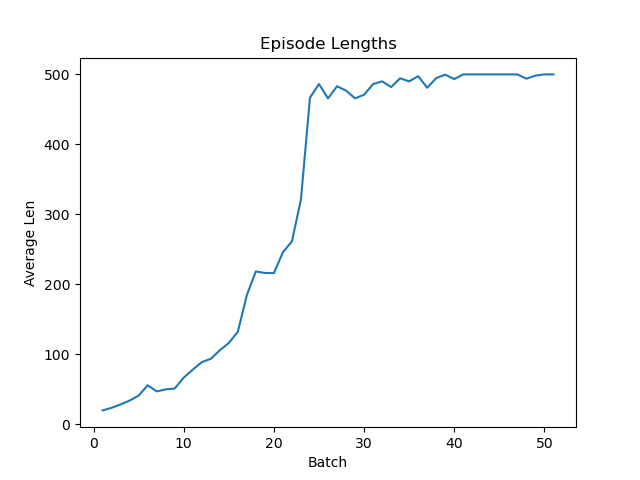
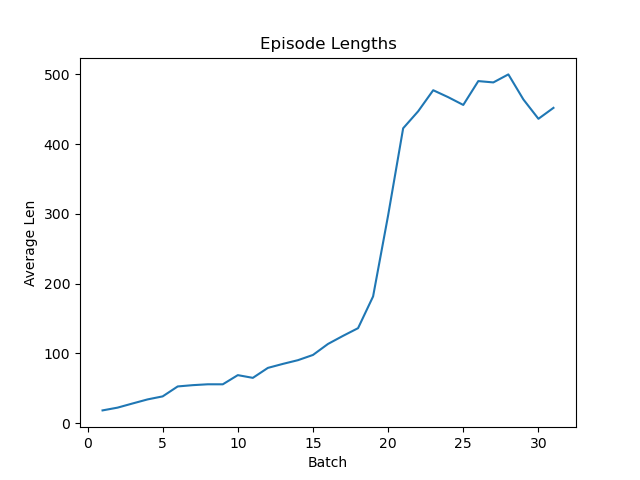
better run

diff --git a/reinforce_adv.py b/reinforce_adv.py
@@ -82,7 +82,7 @@ if __name__ == "__main__":
     #policy.to(device=device)
 
     gam = 0.99
-    max_iters =  51 #100
+    max_iters =  31 #100
     batch_size = 32 # 32
     policy_lr = 3e-2
     value_lr = 3e-3
@@ -94,7 +94,6 @@ if __name__ == "__main__":
     print("\nstart training...")
 
     # training loop
-    avg_adv = []
     avg_len = []
     batch_value_loss = []
     ev_vals = []
@@ -130,42 +129,49 @@ if __name__ == "__main__":
                 else:
                     state = next_state
 
-        batch_avg_adv = sum(batch_weights)/len(batch_weights)
+       
         batch_avg_len = sum(batch_lens)/len(batch_lens)
-        avg_adv.append(batch_avg_adv) 
         avg_len.append(batch_avg_len)
 
         batch_weights_tensor =  torch.as_tensor(batch_weights,dtype=torch.float32)
         batch_weights_normd = (batch_weights_tensor - batch_weights_tensor.mean())/(batch_weights_tensor.std() + 1e-8)
     
         surrogate_loss = policy.surrogate_loss(
-            torch.as_tensor(batch_acts,dtype=torch.float32),
+            torch.as_tensor(batch_acts,dtype=torch.long),
             torch.as_tensor(batch_states,dtype=torch.float32),
             batch_weights_normd
             )
         
-        value_loss,ev = value.loss_fn(
-            torch.as_tensor(batch_states,dtype=torch.float32),
-            torch.as_tensor(batch_targets,dtype=torch.float32)
-            )
-        
-        batch_value_loss.append(value_loss.item())
-        ev_vals.append(ev)
-
-        if batch % 10 == 0:
-            print(f"Batch {batch} avg adv: {batch_avg_adv}")
-            print(f"Batch {batch} avg len: {batch_avg_len}")
-            print(f"Batch {batch} value loss: {value_loss.item()}")
-            print(f"Batch {batch} ev: {ev}")
-            print("\n")
-
         optimizer_policy.zero_grad()
         surrogate_loss.backward()
         optimizer_policy.step()
+        
+        for epoch in range(epochs):
+            evs_in_epochs = []
+            value_loss_in_epochs = []
+            value_loss,ev = value.loss_fn(
+                torch.as_tensor(batch_states,dtype=torch.float32),
+                torch.as_tensor(batch_targets,dtype=torch.float32)
+                )
+            evs_in_epochs.append(ev)
+            value_loss_in_epochs.append(value_loss.item())
 
-        optimizer_value.zero_grad()
-        value_loss.backward()
-        optimizer_value.step()
+            optimizer_value.zero_grad()
+            value_loss.backward()
+            optimizer_value.step()
+        
+        avg_value_loss_in_epochs = sum(value_loss_in_epochs)/epochs
+        avg_ev_in_epochs = sum(evs_in_epochs)/epochs
+        batch_value_loss.append(avg_value_loss_in_epochs)
+        ev_vals.append(avg_ev_in_epochs)
+
+        if batch % 10 == 0:
+            print(f"Batch {batch} avg len: {batch_avg_len}")
+            print(f"Batch {batch} value loss: {avg_value_loss_in_epochs}")
+            print(f"Batch {batch} ev: {avg_ev_in_epochs}")
+            print("\n")
+
+        
                 
     env_render.close()
     env_headless.close()
@@ -177,13 +183,6 @@ if __name__ == "__main__":
 
     if serious_training_run:
         torch.save(policy.state_dict(),saved_policy_filename)
-
-    plt.plot([i for i in range(1,max_iters+1)], avg_adv) 
-    plt.xlabel("Batch")  
-    plt.ylabel("Average Adv")  
-    plt.title("Agent Adv")
-    plt.savefig('batch_avg_reward.png')
-    plt.show()        
 
     plt.plot([i for i in range(1,max_iters+1)], avg_len) 
     plt.xlabel("Batch")  
